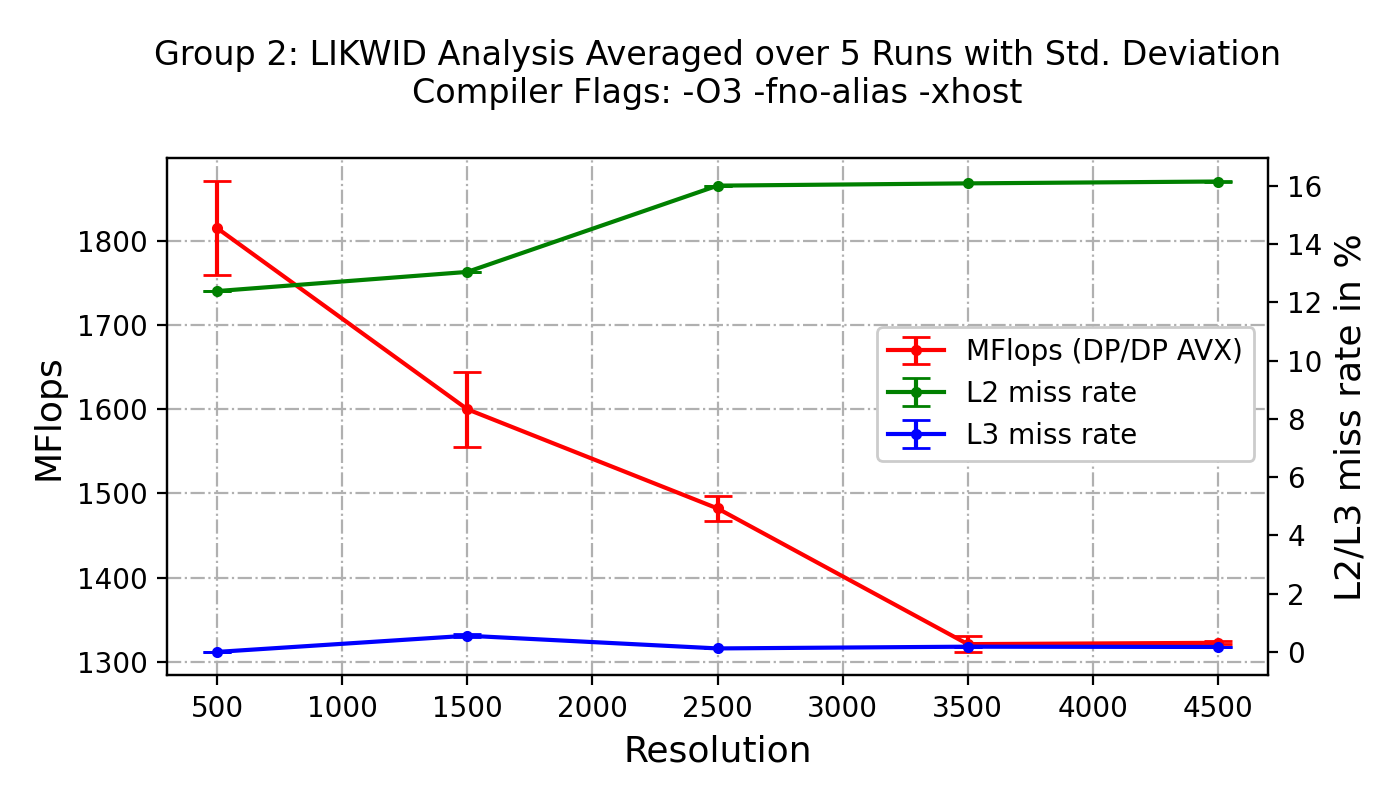
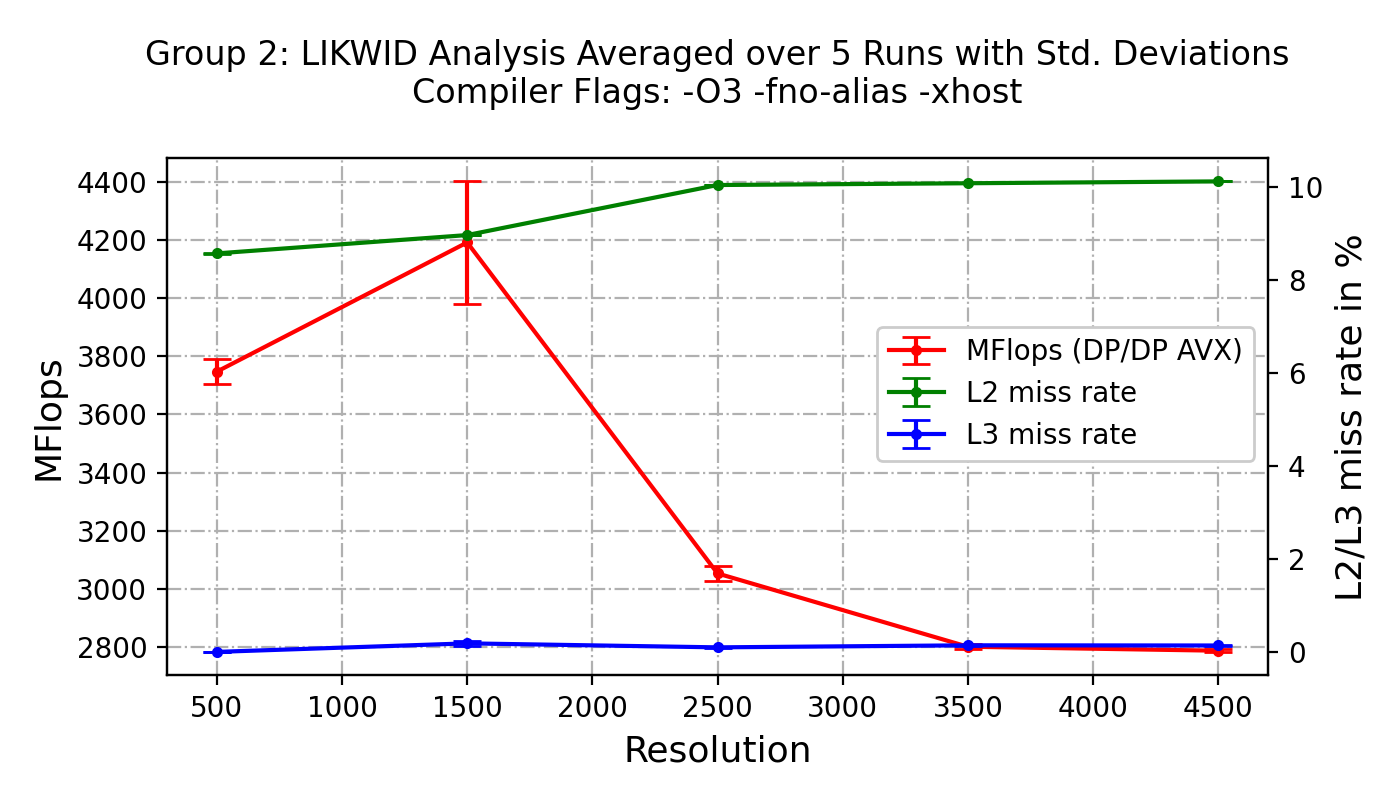
Add new plots with new data

diff --git a/2/plots/plot.py b/2/plots/plot.py
@@ -8,53 +8,53 @@ resolutions = [500, 1500, 2500, 3500, 4500]
 
 ### -O2
 O2_L2_miss_rate_5runs = 100 * np.array([      # in percents (100 *)
-    [0.0314, 0.0301, 0.0356, 0.0330, 0.0313], 
-    [0.0314, 0.0300, 0.0358, 0.0330, 0.0313], 
-    [0.0314, 0.0300, 0.0358, 0.0331, 0.0314], 
-    [0.0313, 0.0300, 0.0357, 0.0331, 0.0313], 
-    [0.0315, 0.0300, 0.0356, 0.0331, 0.0314]
+    [0.0263, 0.0264, 0.0304, 0.0286, 0.0273], 
+    [0.0262, 0.0263, 0.0304, 0.0286, 0.0273], 
+    [0.0263, 0.0263, 0.0303, 0.0285, 0.0273], 
+    [0.0263, 0.0264, 0.0304, 0.0286, 0.0273], 
+    [0.0263, 0.0264, 0.0304, 0.0286, 0.0273]
 ])
 
 O2_L3_miss_rate_5runs = 100 * np.array([      # in percents (100 *)
-    [3.750393e-07, 0.0026, 0.0064, 0.0082, 0.0070], 
-    [3.752361e-07, 0.0026, 0.0065, 0.0080, 0.0070], 
-    [3.752356e-07, 0.0034, 0.0063, 0.0080, 0.0070], 
-    [3.752081e-07, 0.0018, 0.0064, 0.0080, 0.0070], 
-    [3.752192e-07, 0.0016, 0.0063, 0.0081, 0.0070]
+    [8.370136e-06, 0.0013, 0.0046, 0.0058, 0.0051], 
+    [1.277794e-05, 0.0009, 0.0046, 0.0058, 0.0051], 
+    [1.020539e-05, 0.0014, 0.0047, 0.0058, 0.0051], 
+    [1.072460e-05, 0.0022, 0.0046, 0.0058, 0.0051], 
+    [1.114209e-05, 0.0010, 0.0046, 0.0058, 0.0051]
 ])
 
 O2_MFLOPS_5runs = np.array([
-    [491.5479, 324.6958, 244.7845, 227.8861, 228.7733], 
-    [510.1678, 351.7653, 243.6273, 227.4609, 227.6405], 
-    [499.5903, 401.6213, 244.2505, 227.7588, 228.7695], 
-    [512.4094, 360.1106, 244.0123, 225.9582, 228.1091], 
-    [509.6745, 399.0587, 245.3028, 226.9959, 228.6498]
+    [1148.3606, 911.0971, 612.2327, 577.3496, 576.9773], 
+    [1152.4873, 918.3737, 613.9855, 575.6245, 575.8973], 
+    [1155.6224, 927.8827, 610.2758, 574.3577, 576.2277], 
+    [1155.1886, 831.3845, 615.1230, 574.1207, 576.5454], 
+    [1149.1087, 941.1531, 612.3313, 574.9093, 575.6708]
 ])
 
 ### -O3 -fno-alias -xhost
 O3_L2_miss_rate_5runs = 100 * np.array([      # in percents (100 *)
-    [0.1239, 0.1304, 0.1600, 0.1608, 0.1614], 
-    [0.1238, 0.1304, 0.1600, 0.1607, 0.1614], 
-    [0.1238, 0.1304, 0.1600, 0.1608, 0.1614], 
-    [0.1238, 0.1304, 0.1600, 0.1608, 0.1615], 
-    [0.1238, 0.1304, 0.1600, 0.1608, 0.1614]
+    [0.0858, 0.0897, 0.1004, 0.1008, 0.1012],
+    [0.0857, 0.0896, 0.1004, 0.1008, 0.1012],
+    [0.0857, 0.0896, 0.1004, 0.1008, 0.1012],
+    [0.0857, 0.0897, 0.1004, 0.1008, 0.1012],
+    [0.0857, 0.0897, 0.1005, 0.1008, 0.1012]
 ])
 
 O3_L3_miss_rate_5runs = 100 * np.array([      # in percents (100 *)
-    [1.507632e-06, 0.0059, 0.0012, 0.0018, 0.0017], 
-    [3.028562e-06, 0.0056, 0.0012, 0.0018, 0.0017], 
-    [1.514720e-06, 0.0064, 0.0012, 0.0018, 0.0017], 
-    [3.786921e-06, 0.0050, 0.0012, 0.0018, 0.0017], 
-    [4.544191e-06, 0.0049, 0.0012, 0.0018, 0.0017]
+    [3.823076e-05, 0.0014, 0.0010, 0.0017, 0.0017],
+    [4.495033e-05, 0.0011, 0.0008, 0.0014, 0.0012],
+    [3.866456e-05, 0.0024, 0.0011, 0.0016, 0.0014],
+    [4.781330e-05, 0.0018, 0.0010, 0.0013, 0.0013],
+    [4.953515e-05, 0.0027, 0.0012, 0.0013, 0.0015]
 ])
 
 # Number is for DP, for AVX DP the number is equal +/- 5.
 O3_MFLOPS_5runs = np.array([
-    [1776.9151, 1627.7634, 1469.7033, 1330.5803, 1320.5122],
-    [1778.2934, 1554.1183, 1495.4391, 1316.9242, 1322.0736],
-    [1873.5473, 1668.4818, 1479.6065, 1305.5911, 1322.8326],
-    [1890.2021, 1597.1130, 1502.2886, 1322.8273, 1321.8052], 
-    [1755.8812, 1552.3627, 1464.1460, 1329.8544, 1326.3065]
+    [3666.4997, 4414.6386, 3074.1369, 2805.9896, 2786.7321], 
+    [3754.0356, 4114.5924, 3055.8120, 2799.1036, 2782.2887],
+    [3754.1325, 4443.6424, 3061.5242, 2801.0804, 2793.6859],
+    [3770.3622, 3885.4006, 3067.7480, 2809.9452, 2787.5355],
+    [3791.7184, 4102.2558, 3003.3868, 2785.2065, 2782.3591]
 ])
 
 #########
@@ -83,7 +83,7 @@ L3_plot = ax2.errorbar(resolutions, np.average(O3_L3_miss_rate_5runs, axis=0),
              yerr=np.std(O3_L3_miss_rate_5runs, axis=0),
              capsize=5, fmt='.-', color='blue', label="L3 miss rate")
 
-ax1.set_title("Group 2: LIKWID Analysis Averaged over 5 Runs with Std. Deviation\nCompiler Flags: -O3 -fno-alias -xhost\n")
+ax1.set_title("Group 2: LIKWID Analysis Averaged over 5 Runs with Std. Deviations\nCompiler Flags: -O3 -fno-alias -xhost\n")
 ax1.grid(True, linestyle='-.')
 ax1.legend(handles=[mflops_plot, L2_plot, L3_plot], framealpha=1,
            bbox_to_anchor=(1, 0.7))
@@ -116,7 +116,7 @@ L3_plot = ax2.errorbar(resolutions, np.average(O2_L3_miss_rate_5runs, axis=0),
              capsize=5, fmt='.-', color='blue', label="L3 miss rate")
 
 
-ax1.set_title("Group 2: LIKWID Analysis Averaged over 5 Runs with Std. Deviation\nCompiler Flags: -O2\n")
+ax1.set_title("Group 2: LIKWID Analysis Averaged over 5 Runs with Std. Deviations\nCompiler Flags: -O2\n")
 ax1.grid(True, linestyle='-.')
 ax1.legend(handles=[mflops_plot, L2_plot, L3_plot], framealpha=1,
            bbox_to_anchor=(1, 0.7))

diff --git a/2/plots/old_data.py b/2/plots/old_data.py
@@ -1,0 +1,50 @@
+### -O2
+O2_L2_miss_rate_5runs = 100 * np.array([      # in percents (100 *)
+    [0.0314, 0.0301, 0.0356, 0.0330, 0.0313], 
+    [0.0314, 0.0300, 0.0358, 0.0330, 0.0313], 
+    [0.0314, 0.0300, 0.0358, 0.0331, 0.0314], 
+    [0.0313, 0.0300, 0.0357, 0.0331, 0.0313], 
+    [0.0315, 0.0300, 0.0356, 0.0331, 0.0314]
+])
+
+O2_L3_miss_rate_5runs = 100 * np.array([      # in percents (100 *)
+    [3.750393e-07, 0.0026, 0.0064, 0.0082, 0.0070], 
+    [3.752361e-07, 0.0026, 0.0065, 0.0080, 0.0070], 
+    [3.752356e-07, 0.0034, 0.0063, 0.0080, 0.0070], 
+    [3.752081e-07, 0.0018, 0.0064, 0.0080, 0.0070], 
+    [3.752192e-07, 0.0016, 0.0063, 0.0081, 0.0070]
+])
+
+O2_MFLOPS_5runs = np.array([
+    [491.5479, 324.6958, 244.7845, 227.8861, 228.7733], 
+    [510.1678, 351.7653, 243.6273, 227.4609, 227.6405], 
+    [499.5903, 401.6213, 244.2505, 227.7588, 228.7695], 
+    [512.4094, 360.1106, 244.0123, 225.9582, 228.1091], 
+    [509.6745, 399.0587, 245.3028, 226.9959, 228.6498]
+])
+
+### -O3 -fno-alias -xhost
+O3_L2_miss_rate_5runs = 100 * np.array([      # in percents (100 *)
+    [0.1239, 0.1304, 0.1600, 0.1608, 0.1614], 
+    [0.1238, 0.1304, 0.1600, 0.1607, 0.1614], 
+    [0.1238, 0.1304, 0.1600, 0.1608, 0.1614], 
+    [0.1238, 0.1304, 0.1600, 0.1608, 0.1615], 
+    [0.1238, 0.1304, 0.1600, 0.1608, 0.1614]
+])
+
+O3_L3_miss_rate_5runs = 100 * np.array([      # in percents (100 *)
+    [1.507632e-06, 0.0059, 0.0012, 0.0018, 0.0017], 
+    [3.028562e-06, 0.0056, 0.0012, 0.0018, 0.0017], 
+    [1.514720e-06, 0.0064, 0.0012, 0.0018, 0.0017], 
+    [3.786921e-06, 0.0050, 0.0012, 0.0018, 0.0017], 
+    [4.544191e-06, 0.0049, 0.0012, 0.0018, 0.0017]
+])
+
+# Number is for DP, for AVX DP the number is equal +/- 5.
+O3_MFLOPS_5runs = np.array([
+    [1776.9151, 1627.7634, 1469.7033, 1330.5803, 1320.5122],
+    [1778.2934, 1554.1183, 1495.4391, 1316.9242, 1322.0736],
+    [1873.5473, 1668.4818, 1479.6065, 1305.5911, 1322.8326],
+    [1890.2021, 1597.1130, 1502.2886, 1322.8273, 1321.8052], 
+    [1755.8812, 1552.3627, 1464.1460, 1329.8544, 1326.3065]
+])
